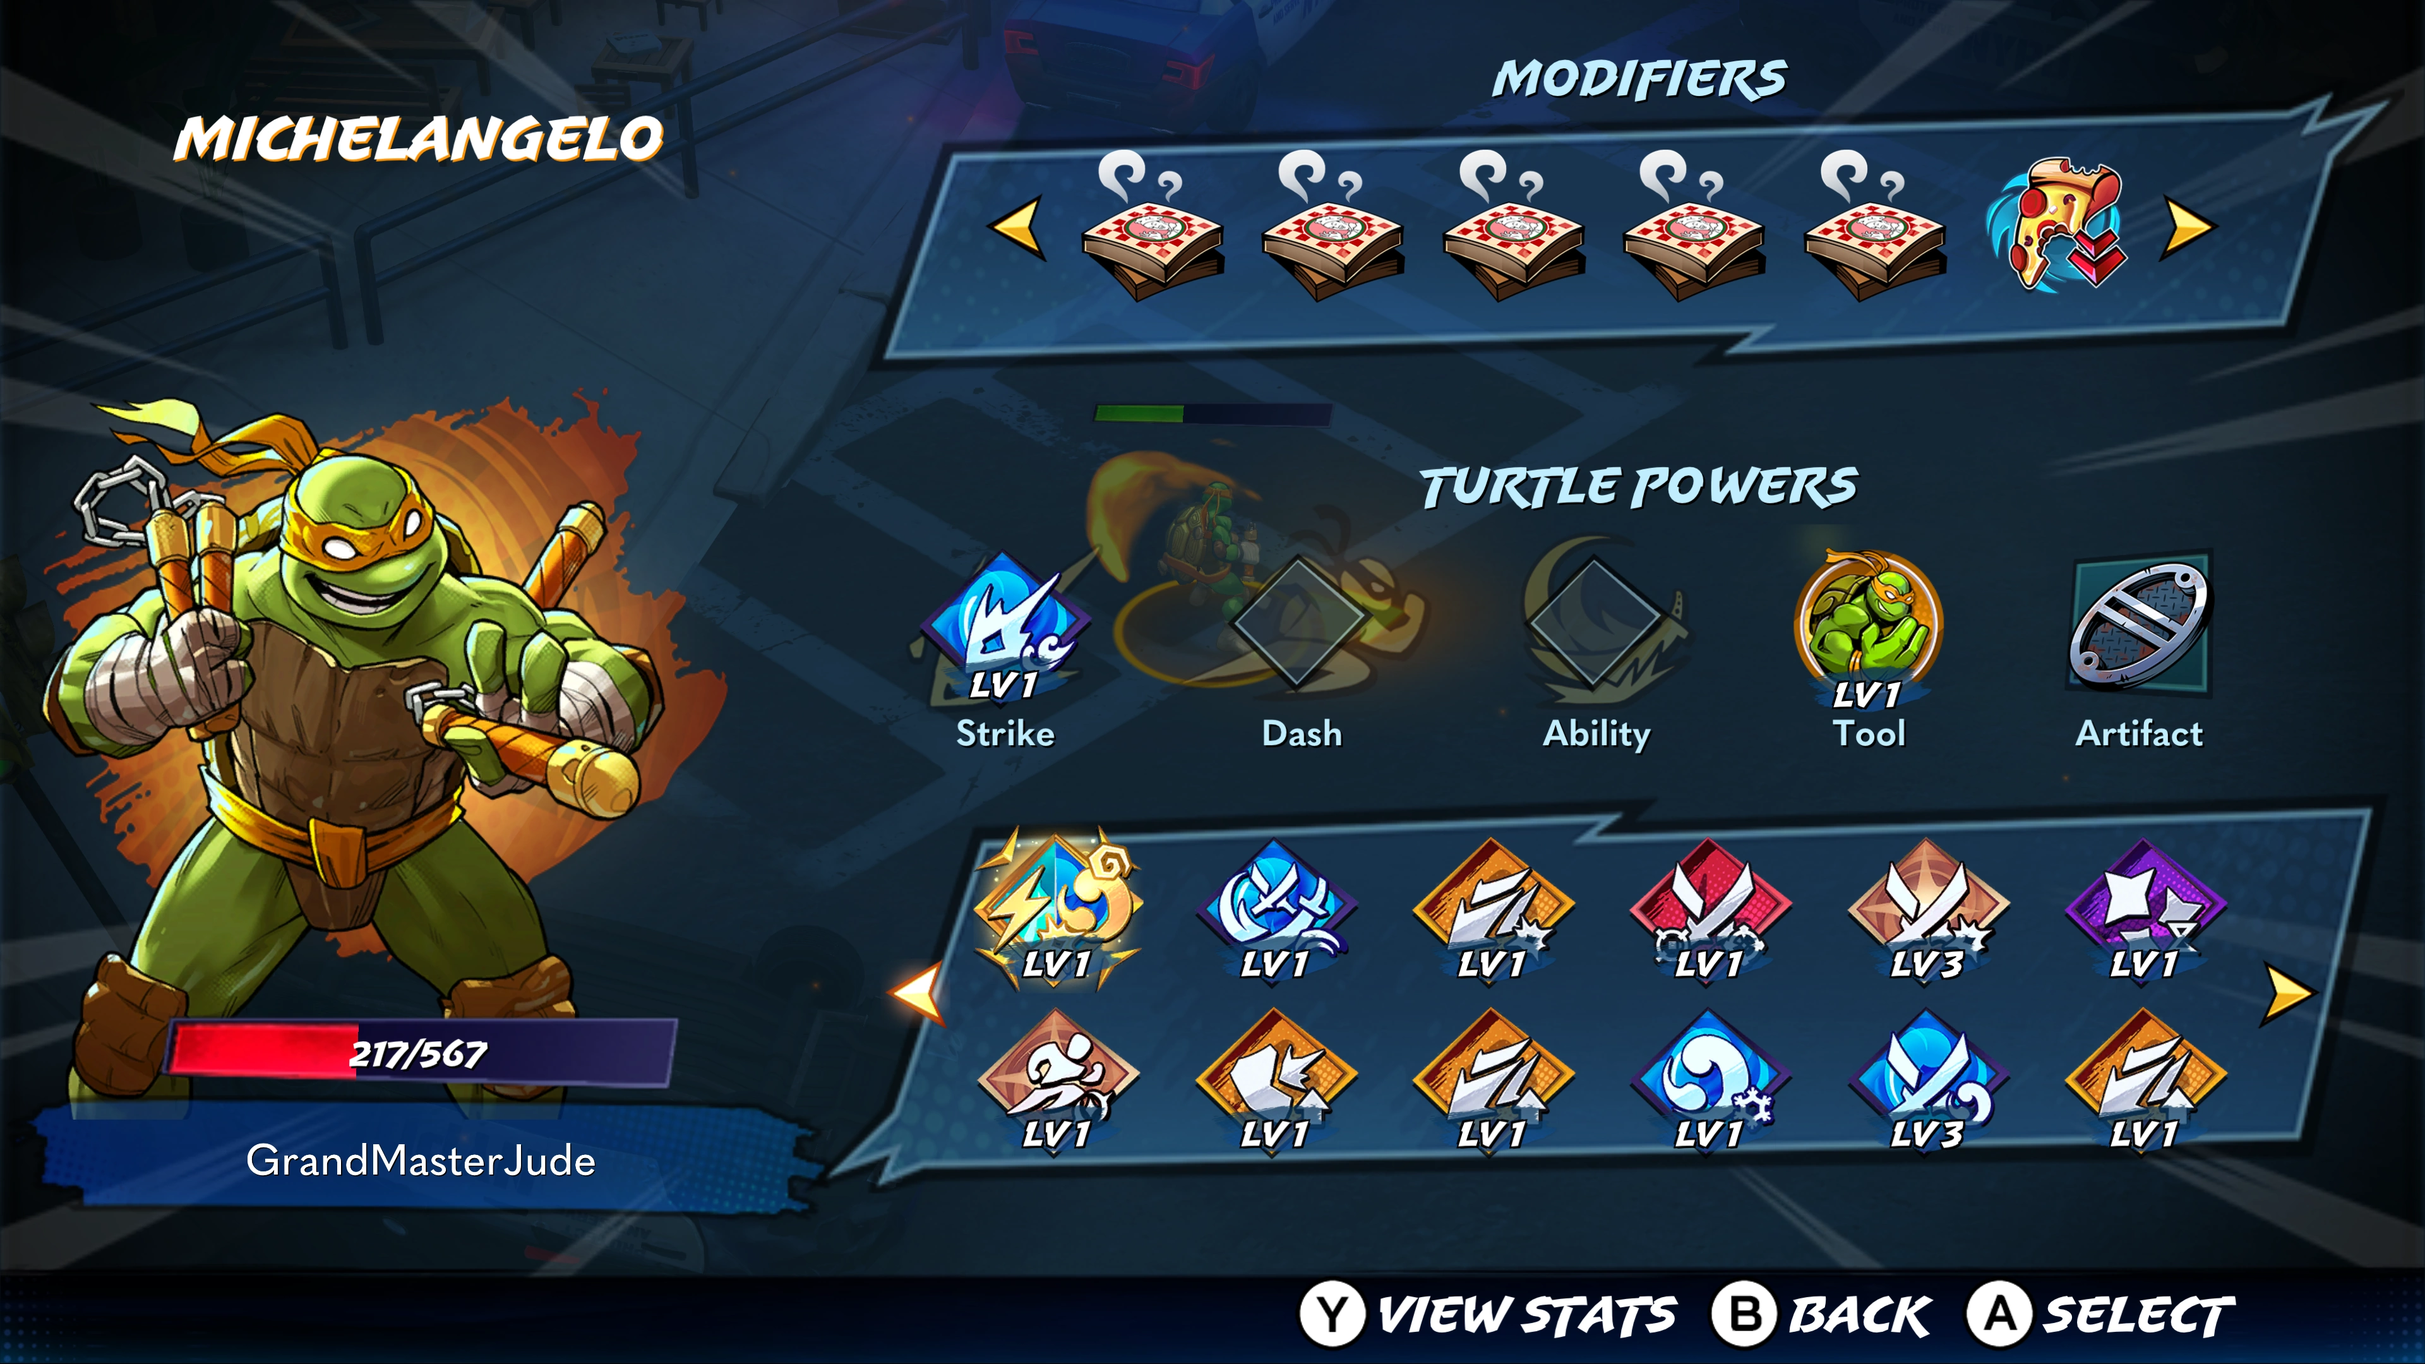
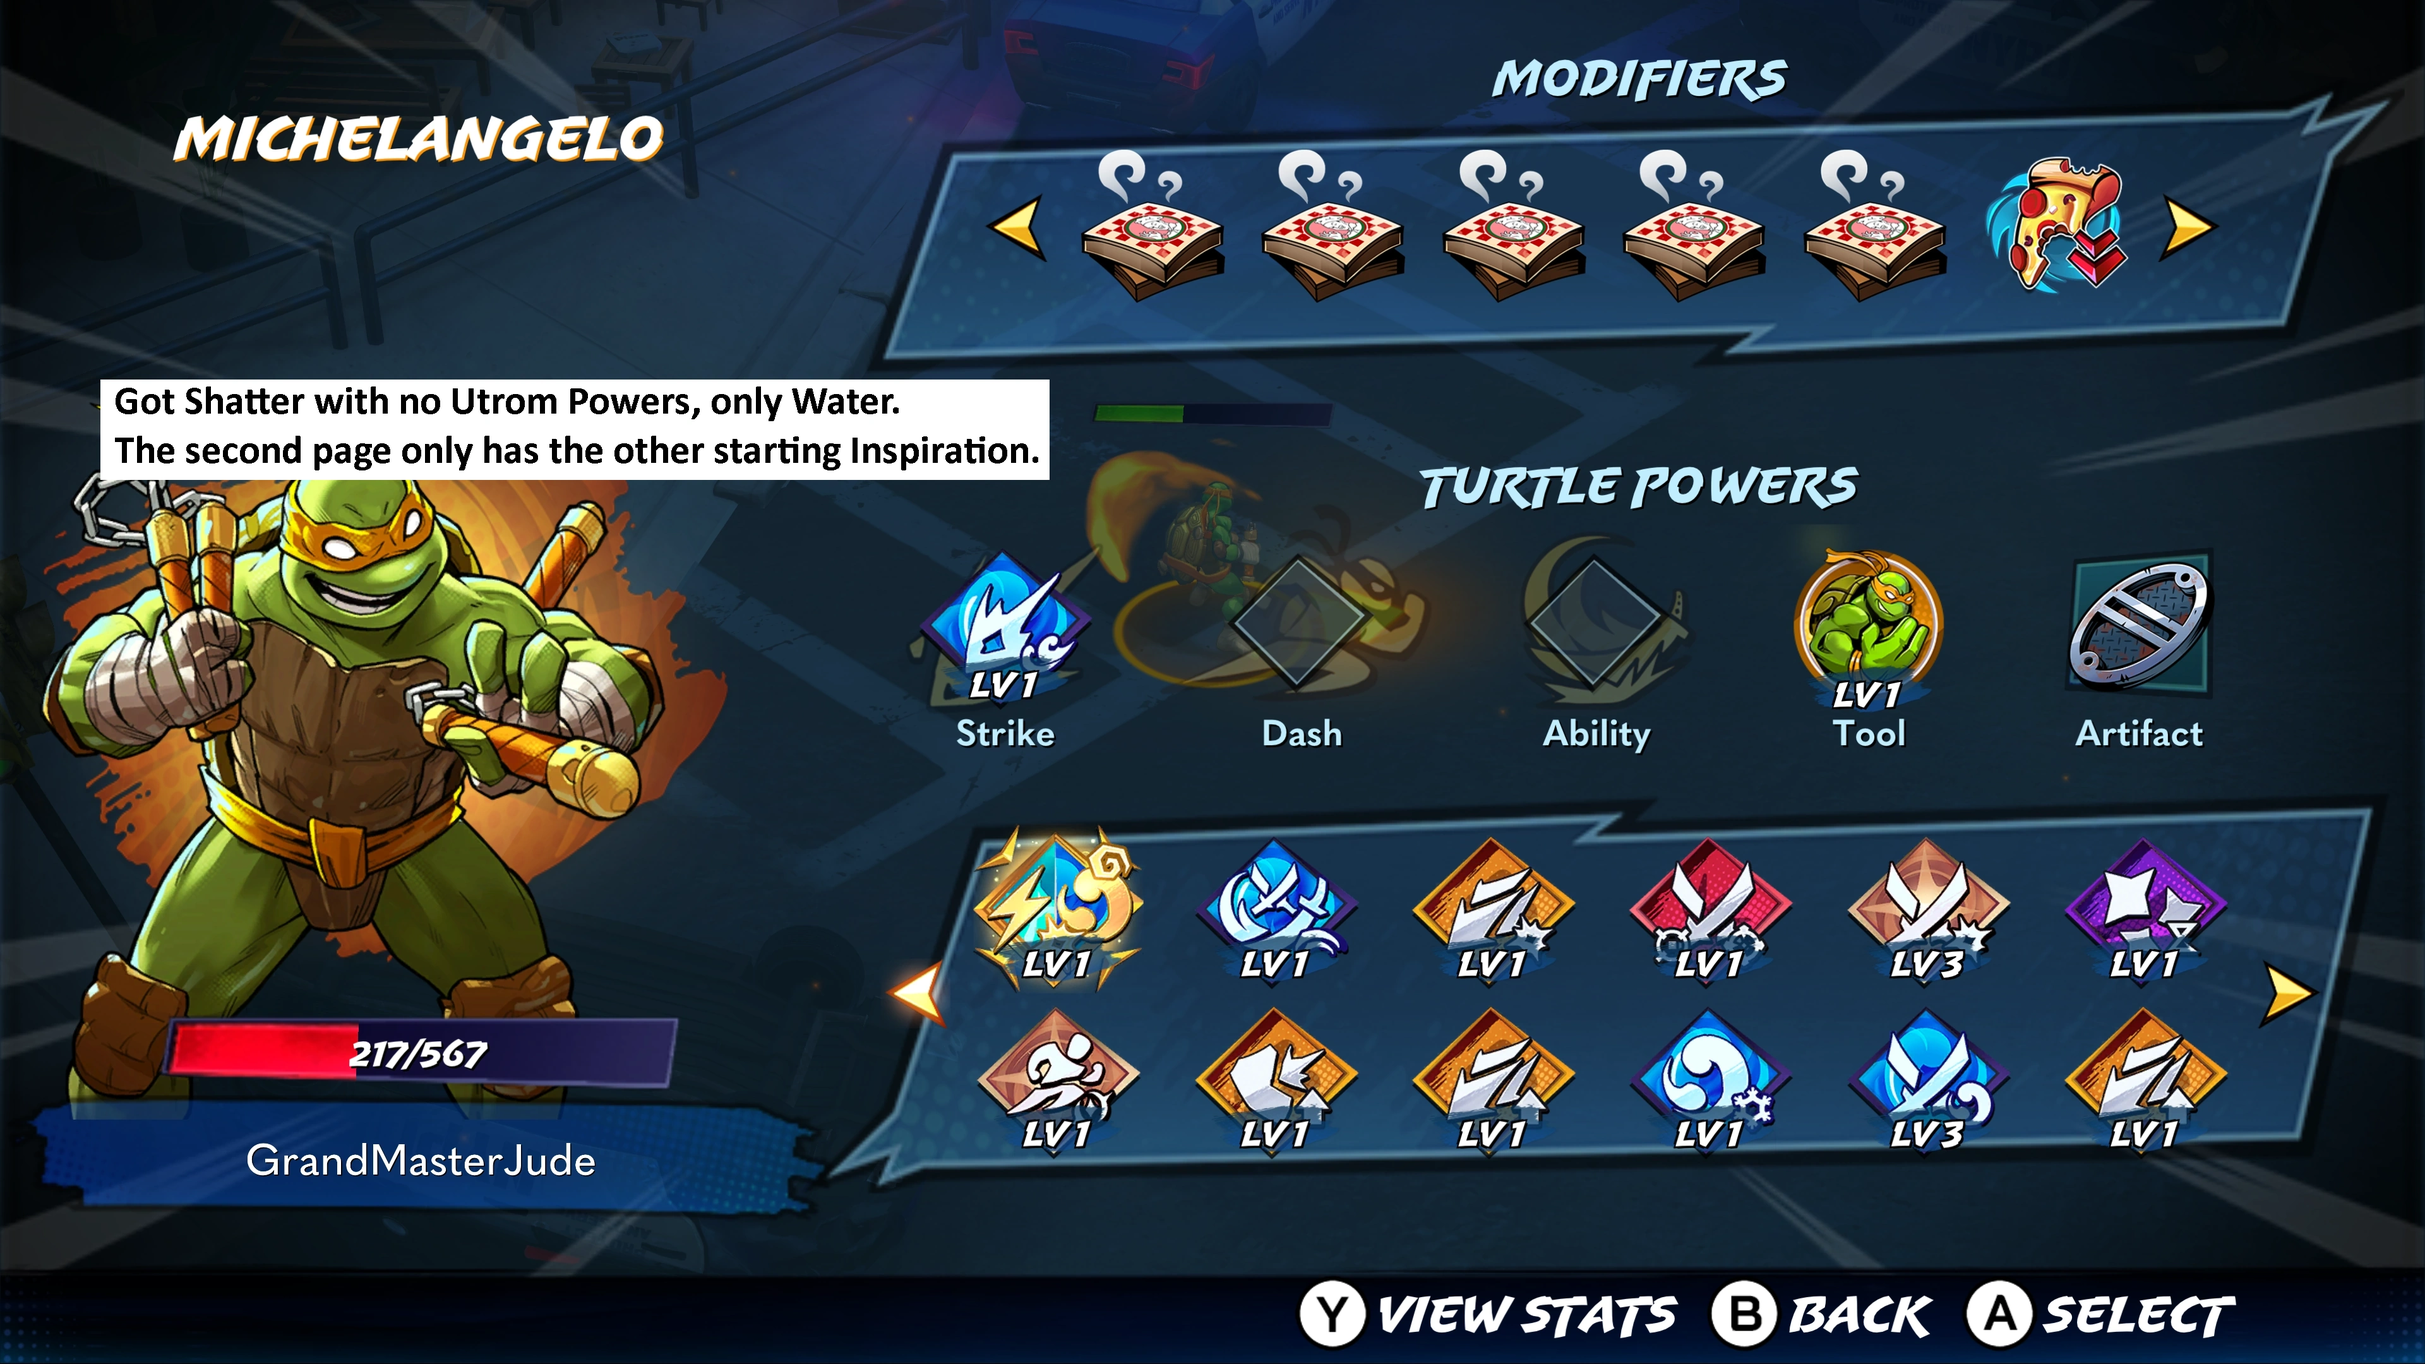
Add files via upload

Changed region(s): [[0.0312, 0.2792, 0.4375, 0.3722]]

diff --git a/powers.html b/powers.html
@@ -198,7 +198,7 @@
                     </div>
 
                     <div class="border-astral-l power-astral-l-initial">
-                        <p class="section-title">After Light Attacks and Water Damage?</p>
+                        <p class="section-title">After Light Attacks and Water Damage</p>
                         <div id="power-astral-l-bright-spring" class="power-wrapper">
                             <h4>*BRIGHT SPRING* (Water & Light)</h4>
                             <p>Attacks restore 2 health.</p>
@@ -711,7 +711,7 @@
     
                         <div id="power-water-heavy-rain" class="power-wrapper">
                             <h4>Heavy Rain</h4>
-                            <p>Deal +40% / +60 / +80 increased Water damage. The increase is doubled during heavy rain.</p>
+                            <p>Deal +40% / +60% / +80% increased Water damage. The increase is doubled during heavy rain.</p>
                         </div>
 
                         <div id="power-water-splash-damage" class="power-wrapper">
@@ -794,10 +794,10 @@
                 </details>
                 <details class="power-legendary">
                     <summary><img class="p-icon" src="assets/Icon-Power-M.webp"/>Legendary</summary>
-                    <p>I say what I believe the requirements are for each power but we can't be 100% sure until the devs confirm.</p>
-                    <p>I've included screenshots where I've obtained the legendary power with a low number of other powers to help narrow down what is really necessary. If you have screenshots that can help narrow them down further please mention them in the official discord.</p>
-                    <p>Many of the prerequisites mention a way to do damage. This can be from a power or a tool. I show an example of Frostfire with only Fireball and Water powers.</p>
-                    <p>Some of the powers need a way to throw Shuriken. This can be from the Ninja Powers, but I've also gotten them with the Shuriken Storm tool. Leonardo's starting Shuriken doesn't seem to count though. Need more research to confirm if Ooze/Utrom Shuriken work.</p>
+                    <p class="note">I say what I believe the requirements are for each power but we can't be 100% sure until the devs confirm.</p>
+                    <p class="note">I've included screenshots where I've obtained the legendary power with a low number of other powers to help narrow down what is really necessary. If you have screenshots that can help narrow them down further please mention them in the official discord.</p>
+                    <p class="note">Many of the prerequisites mention a way to do damage. This can be from a power or a tool. I show an example of Frostfire with only Fireball and Water powers.</p>
+                    <p class="note">Some of the powers need a way to throw Shuriken. This can be from the Ninja Powers, but I've also gotten them with the Shuriken Storm tool. Leonardo's starting Shuriken doesn't seem to count though. Need more research to confirm if Ooze/Utrom Shuriken work.</p>
 
 
                     <div class="power-wrapper">
@@ -807,6 +807,9 @@
                         <div class="thumbnail-container">
                             <a href="legendaries/Darkflame.webp">
                                 <img class="legendary-thumbnail" src="legendaries/Darkflame.webp">
+                            </a>
+                            <a href="legendaries/Darkflame-meteor.webp">
+                                <img class="legendary-thumbnail" src="legendaries/Darkflame-meteor.webp">
                             </a>
                         </div>
                     </div>
@@ -831,7 +834,7 @@
                     <div class="power-wrapper">
                         <h4>Bright Spring (Astral Light & Water)</h4>
                         <p>Attacks restore 2 health.</p>
-                        <p class="note">Light Attacks, and maybe Frost since most other Water powers need it, but maybe just Water damage.</p>
+                        <p class="note">Light Attacks and Water damage. </p>
                         <p class="note">This power feels more rare than the others but we don't know the percent chance of any of them showing up.</p>
                     </div>
                     <div class="power-wrapper">
@@ -878,7 +881,12 @@
                     <div class="power-wrapper">
                         <h4>Secret of the Ooze (Ooze & Utrom)</h4>
                         <p>Reduce damage received by 30%</p>
-                        <p class="note">A way to apply stacks of Ooze and Flame damage</p>
+                        <p class="note">A way to apply stacks of Ooze and Utrom damage</p>
+                        <div class="thumbnail-container">
+                            <a href="legendaries/SecretotOoze.webp">
+                                <img class="legendary-thumbnail" src="legendaries/SecretotOoze.webp">
+                            </a>
+                        </div>
                     </div>
                     <div class="power-wrapper">
                         <h4>Solution to Pollution (Water & Ooze)</h4>
@@ -888,9 +896,13 @@
                     <div class="power-wrapper">
                         <h4>Shatter (Utrom & Water)</h4>
                         <p>Deal 200 Water and Utrom damage when applying a Stun effect to an enemy. Enemies are no longer Stunned.</p>
+                        <p class="note">Obviously you need stun for this to be effective. <a href="tools.html#tool-taunt">Taunt</a>, Flash Freeze, Shocking, Core Collapse, Unfortunate Odor are all the possible ways to apply stun.</p>
                         <p class="note">Frost and Utrom damage. It is possible to get this without a way to stun since Flash Freeze isn't a requirement.</p>
                         <p class="note">Apparently you don't even need Utrom for this to show up. (first screenshot)</p>
                         <div class="thumbnail-container">
+                            <a href="legendaries/Shatter-No-Utrom.webp">
+                                <img class="legendary-thumbnail" src="legendaries/Shatter-No-Utrom.webp">
+                            </a>
                             <a href="legendaries/Shatter-No-Utrom.webp">
                                 <img class="legendary-thumbnail" src="legendaries/Shatter-No-Utrom.webp">
                             </a>

diff --git a/index.html b/index.html
@@ -46,7 +46,15 @@
                                 <li>Attack Damage*: <br class="mobile-yep">6, 12, 14 14 20</li>
                                 <li>Dash Attack Damage*: <br class="mobile-yep">6 6 6 12</li>
                                 <li>Special Attack Damage: <br class="mobile-yep">37 37 37</li>
-                                <li>Special Charge Rate:<br class="mobile-yep">15% per attack.</li>
+                                <li>Special Charge Rate:<br class="mobile-yep"> 15% per attack.</li>
+                            </ul>
+                            <ul class="basic-content basic-content-max border-m">
+                                <li class="max-label">Max Upgrades</li>
+                                <li>Health: 385</li>
+                                <li>Attack Damage*: <br class="mobile-yep">6, 12, 14 14 20</li>
+                                <li>Dash Attack Damage*: <br class="mobile-yep">6 6 6 12</li>
+                                <li>Special Attack Damage: <br class="mobile-yep">37 37 37</li>
+                                <li>Special Charge Rate:<br class="mobile-yep"> 23% per attack.</li>
                             </ul>
                             <ul>
                                 <li class="basic-insp border-m">
@@ -73,6 +81,14 @@
                                     <li>Special Attack Damage*: 65</li>
                                     <li>Special Charge Rate: <br class="mobile-yep">20% per attack.</li>
                                 </ul>
+                                <ul class="basic-content basic-content-max border-l">
+                                    <li class="max-label">Max Upgrades</li>
+                                    <li>Health: 350</li>
+                                    <li>Attack Damage: <br class="mobile-yep">65, 65, 104 + Master Strike damage</li>
+                                    <li>Dash Attack Damage: 90</li>
+                                    <li>Special Attack Damage*: 241</li>
+                                    <li>Special Charge Rate: <br class="mobile-yep">30% per attack.</li>
+                                </ul>
                                 <ul>
                                     <li class="basic-insp border-l">
                                         <h4>Inspiration 1</h4>
@@ -98,6 +114,14 @@
                                     <li>Special Attack Damage: <br class="mobile-yep">25 25 25 25 25 25</li>
                                     <li>Special Charge Rate: <br class="mobile-yep">18% per attack.</li>
                                 </ul>
+                                <ul class="basic-content basic-content-max border-r">
+                                    <li class="max-label">Max Upgrades</li>
+                                    <li>Health: 420</li>
+                                    <li>Attack Damage: <br class="mobile-yep">24, 30, 28 35</li>
+                                    <li>Dash Attack Damage: 24</li>
+                                    <li>Special Attack Damage: <br class="mobile-yep">25 25 25 25 25 25</li>
+                                    <li>Special Charge Rate: <br class="mobile-yep">18% per attack.</li>
+                                </ul>
                                 <ul>
                                     <li class="basic-insp border-r">
                                         <h4>Inspiration 1</h4>
@@ -115,6 +139,14 @@
                             <div class="basic-donatello-content">
                                 <ul class="basic-content border-d">
                                     <li>Health: 140</li>
+                                    <li>Attack Damage: <br class="mobile-yep">20, 20, 30</li>
+                                    <li>Dash Attack Damage: 25</li>
+                                    <li>Special Attack Damage: <br class="mobile-yep">30 30 30 30</li>
+                                    <li>Special Charge Rate: <br class="mobile-yep">20% per attack.</li>
+                                </ul>
+                                <ul class="basic-content basic-content-max border-d">
+                                    <li class="max-label">Max Upgrades</li>
+                                    <li>Health: 490</li>
                                     <li>Attack Damage: <br class="mobile-yep">20, 20, 30</li>
                                     <li>Dash Attack Damage: 25</li>
                                     <li>Special Attack Damage: <br class="mobile-yep">30 30 30 30</li>

diff --git a/upgrades.html b/upgrades.html
@@ -872,7 +872,7 @@
                         <div class="upgrade-level">
                             <div class="cost">
                                 <p class="level">Level 11</p>
-                                <p>Cost: 10 <img class="coin" src="assets/TMNT-DragonCoin.webp"/></p>
+                                <p>Cost: 210 <img class="coin" src="assets/TMNT-DragonCoin.webp"/></p>
                             </div>
                             <p>+110% Max Health.</p>
                         </div>
@@ -880,7 +880,7 @@
                         <div class="upgrade-level">
                             <div class="cost">
                                 <p class="level">Level 12</p>
-                                <p>Cost: 20 <img class="coin" src="assets/TMNT-DragonCoin.webp"/></p>
+                                <p>Cost: 240 <img class="coin" src="assets/TMNT-DragonCoin.webp"/></p>
                             </div>
                             <p>+120% Max Health.</p>
                         </div>
@@ -888,7 +888,7 @@
                         <div class="upgrade-level">
                             <div class="cost">
                                 <p class="level">Level 13</p>
-                                <p>Cost: 30 <img class="coin" src="assets/TMNT-DragonCoin.webp"/></p>
+                                <p>Cost: 270 <img class="coin" src="assets/TMNT-DragonCoin.webp"/></p>
                             </div>
                             <p>+130% Max Health.</p>
                         </div>
@@ -896,7 +896,7 @@
                         <div class="upgrade-level">
                             <div class="cost">
                                 <p class="level">Level 14</p>
-                                <p>Cost: 50 <img class="coin" src="assets/TMNT-DragonCoin.webp"/></p>
+                                <p>Cost: 320 <img class="coin" src="assets/TMNT-DragonCoin.webp"/> need: 2 <img class="coin karai" src="assets/Icon-Karai.webp"/></p>
                             </div>
                             <p>+140% Max Health.</p>
                         </div>
@@ -904,7 +904,7 @@
                         <div class="upgrade-level">
                             <div class="cost">
                                 <p class="level">Level 15</p>
-                                <p>Cost: 70 <img class="coin" src="assets/TMNT-DragonCoin.webp"/></p>
+                                <p>Cost: 370 <img class="coin" src="assets/TMNT-DragonCoin.webp"/></p>
                             </div>
                             <p>+150% Max Health.</p>
                         </div>
@@ -1730,7 +1730,7 @@
                                 <p class="level">Level 1</p>
                                 <p>Cost: 250 <img class="coin" src="assets/TMNT-DreamerCoin.webp"/> need: 2 <img class="coin" src="assets/Icon-Gauntlet.webp"/></p>
                             </div>
-                            <p>Dragon Coins are always granted as Bonus Curency Room Rewareds for Masteries and Inspirations.</p>
+                            <p>Dragon Coins are always granted as Bonus Currency Room Rewards for Masteries and Inspirations.</p>
                         </div>
                     </div>
                 </div>

diff --git a/map.html b/map.html
@@ -147,7 +147,8 @@
                 <div class="map-room">
                     <h4>Room 6:</h4>
                     <p>Mini-boss</p>
-                    <p>Both regular and Guantlet version give <a href="inspirations.html">Inspiration</a> as a Reward Option.</p>
+                    <p>Gauntlet version gives <a href="inspirations.html">Inspiration</a> as a Reward Option.</p>
+                    <p>There is a percent chance that the regular version does as well?</p>
                 </div>
                 <div class="map-room">
                     <h4>Room 7:</h4>
